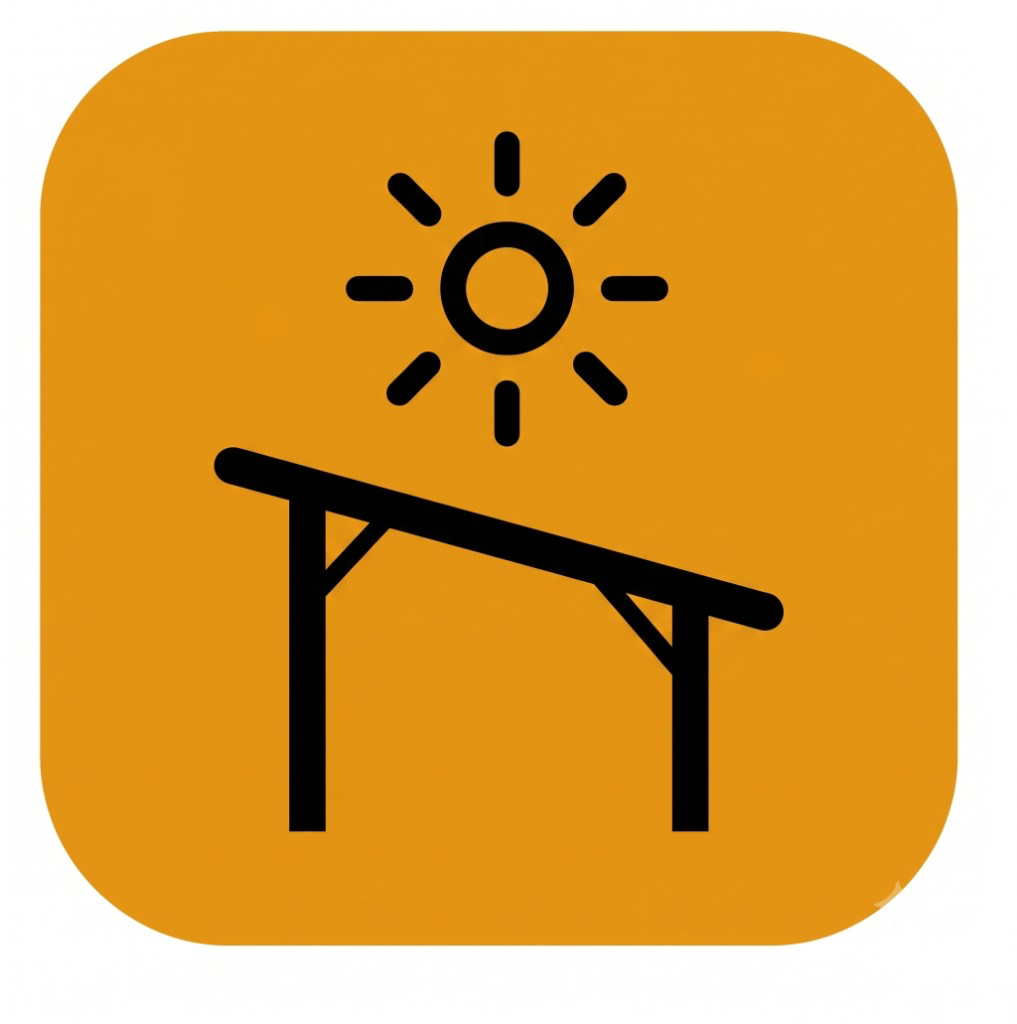
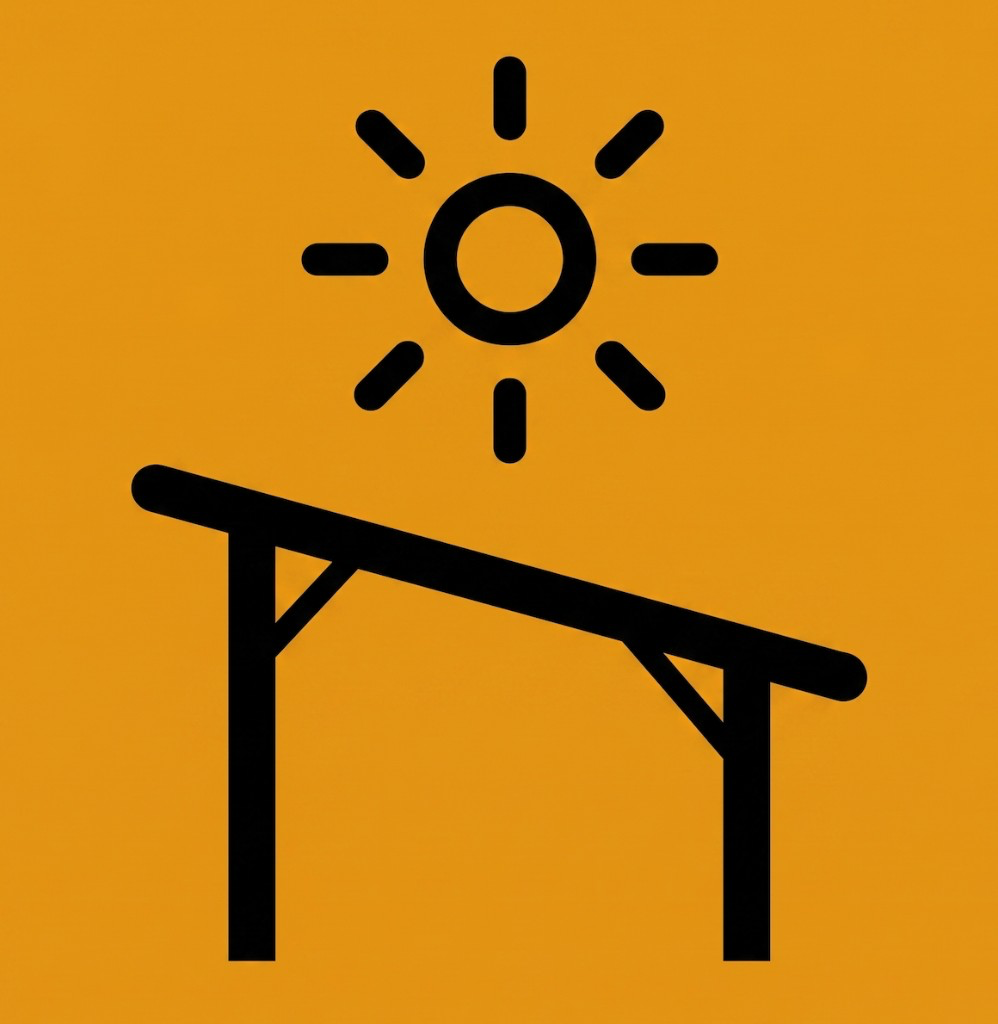
icone

diff --git a/lib/favicon-sun.tsx b/lib/favicon-sun.tsx
@@ -1,0 +1,69 @@
+import type { ReactNode } from "react";
+
+/** Soleil SolarIndex pour favicons (ImageResponse / next/og). */
+
+export const FAVICON_BG =
+  "linear-gradient(145deg, #fcd34d 0%, #f59e0b 52%, #d97706 100%)";
+export const FAVICON_SUN = "#111827";
+
+/** Favicon 16–32 px : disque épais seul (les rayons deviennent illisibles). */
+export function FaviconSunCompact({ size }: { size: number }) {
+  const core = Math.round(size * 0.44);
+
+  return (
+    <div
+      style={{
+        width: core,
+        height: core,
+        borderRadius: "50%",
+        background: FAVICON_SUN,
+      }}
+    />
+  );
+}
+
+/** Apple touch / grandes tailles : même soleil que le header. */
+export function FaviconSunFull({ size }: { size: number }) {
+  const icon = Math.round(size * 0.58);
+
+  return (
+    <svg
+      width={icon}
+      height={icon}
+      viewBox="0 0 24 24"
+      fill="none"
+      xmlns="http://www.w3.org/2000/svg"
+    >
+      <circle cx="12" cy="12" r="4.75" fill={FAVICON_SUN} />
+      <g stroke={FAVICON_SUN} strokeWidth={2.25} strokeLinecap="round">
+        <path d="M12 2.25v2.75M12 19v2.75M4.5 4.5l2 2M17.5 17.5l2 2M2.25 12h2.75M19 12h2.75M4.5 19.5l2-2M17.5 6.5l2-2" />
+      </g>
+    </svg>
+  );
+}
+
+export function FaviconTile({
+  size,
+  radius,
+  children,
+}: {
+  size: number;
+  radius: number;
+  children: ReactNode;
+}) {
+  return (
+    <div
+      style={{
+        width: size,
+        height: size,
+        display: "flex",
+        alignItems: "center",
+        justifyContent: "center",
+        background: FAVICON_BG,
+        borderRadius: radius,
+      }}
+    >
+      {children}
+    </div>
+  );
+}

diff --git a/lib/format.ts b/lib/format.ts
@@ -1,8 +1,15 @@
-// Formatage homogène en français (espaces de milliers).
+// Formatage homogène en français (espaces de milliers visibles).
+
+function formatInteger(n: number): string {
+  return Math.round(n)
+    .toLocaleString("fr-FR")
+    .replace(/\u202f/g, " ")
+    .replace(/\u00a0/g, " ");
+}
 
 export function nf(n: number | null | undefined): string {
   if (n == null || Number.isNaN(n)) return "—";
-  return Math.round(n).toLocaleString("fr-FR");
+  return formatInteger(n);
 }
 
 export function nfSurface(n: number | null | undefined): string {
@@ -11,15 +18,19 @@ export function nfSurface(n: number | null | undefined): string {
 
 export function euros(n: number | null | undefined): string {
   if (n == null || Number.isNaN(n)) return "—";
-  return `${Math.round(n).toLocaleString("fr-FR")} €`;
+  return `${formatInteger(n)} €`;
 }
 
 // Grands montants : 2,69 M€ pour la lisibilité.
 export function eurosCompact(n: number | null | undefined): string {
   if (n == null || Number.isNaN(n)) return "—";
-  if (n >= 1_000_000) return `${(n / 1_000_000).toLocaleString("fr-FR", { maximumFractionDigits: 2 })} M€`;
-  if (n >= 1_000) return `${(n / 1_000).toLocaleString("fr-FR", { maximumFractionDigits: 0 })} k€`;
-  return `${Math.round(n)} €`;
+  if (n >= 1_000_000) {
+    return `${(n / 1_000_000).toLocaleString("fr-FR", { maximumFractionDigits: 2 }).replace(/\u202f/g, " ")} M€`;
+  }
+  if (n >= 1_000) {
+    return `${formatInteger(n / 1_000)} k€`;
+  }
+  return `${formatInteger(n)} €`;
 }
 
 export function flagLabel(flag: string): { label: string; urgence: boolean } {

diff --git a/lib/i18n/format.ts b/lib/i18n/format.ts
@@ -1,7 +1,7 @@
-/** Replace `{key}` placeholders in a translation string. */
+/** Replace `{key}` placeholders in a translation string. Numbers are formatted with spaced thousands. */
 export function fmt(template: string, vars: Record<string, string | number>): string {
-  return Object.entries(vars).reduce(
-    (s, [k, v]) => s.replaceAll(`{${k}}`, String(v)),
-    template,
-  );
+  return Object.entries(vars).reduce((s, [k, v]) => {
+    const text = typeof v === "number" ? v.toLocaleString("fr-FR").replace(/\u202f/g, " ") : String(v);
+    return s.replaceAll(`{${k}}`, text);
+  }, template);
 }

diff --git a/lib/aper-fine.ts b/lib/aper-fine.ts
@@ -1,4 +1,5 @@
 import { SURFACE_URGENCE_M2 } from "./surface-thresholds";
+import { nf } from "./format";
 
 /** Amende annuelle max. pour parkings ≥ 1 500 m² et < 10 000 m² (loi APER). */
 export const APER_FINE_BELOW_URGENCE_EUR = 20_000;
@@ -13,7 +14,7 @@ export function maxAperAnnualFineEur(surfaceM2: number): number {
 }
 
 export function formatAperAnnualFine(surfaceM2: number): string {
-  return `${maxAperAnnualFineEur(surfaceM2).toLocaleString("fr-FR")} €/an`;
+  return `${nf(maxAperAnnualFineEur(surfaceM2))} €/an`;
 }
 
 export const APER_FINE_TIER_LINES = [

diff --git a/app/simulateur/SimulateurClient.tsx b/app/simulateur/SimulateurClient.tsx
@@ -63,7 +63,10 @@ export default function SimulateurClient() {
     return `/appels-offres/nouveau?${p.toString()}`;
   })();
 
-  const priceLabel = ELECTRICITY_PRICE_EUR.toLocaleString(locale === "en" ? "en-US" : "fr-FR");
+  const priceLabel = ELECTRICITY_PRICE_EUR.toLocaleString(locale === "en" ? "en-US" : "fr-FR").replace(
+    /\u202f/g,
+    " ",
+  );
 
   return (
     <div className="grid gap-8 lg:grid-cols-[minmax(0,1fr)_320px]">

diff --git a/app/apple-icon.tsx b/app/apple-icon.tsx
@@ -1,0 +1,19 @@
+import { ImageResponse } from "next/og";
+import {
+  FaviconSunFull,
+  FaviconTile,
+} from "@/lib/favicon-sun";
+
+export const size = { width: 180, height: 180 };
+export const contentType = "image/png";
+
+export default function AppleIcon() {
+  return new ImageResponse(
+    (
+      <FaviconTile size={180} radius={40}>
+        <FaviconSunFull size={180} />
+      </FaviconTile>
+    ),
+    { ...size },
+  );
+}

diff --git a/app/icon.tsx b/app/icon.tsx
@@ -1,0 +1,19 @@
+import { ImageResponse } from "next/og";
+import {
+  FaviconSunCompact,
+  FaviconTile,
+} from "@/lib/favicon-sun";
+
+export const size = { width: 32, height: 32 };
+export const contentType = "image/png";
+
+export default function Icon() {
+  return new ImageResponse(
+    (
+      <FaviconTile size={32} radius={8}>
+        <FaviconSunCompact size={32} />
+      </FaviconTile>
+    ),
+    { ...size },
+  );
+}
